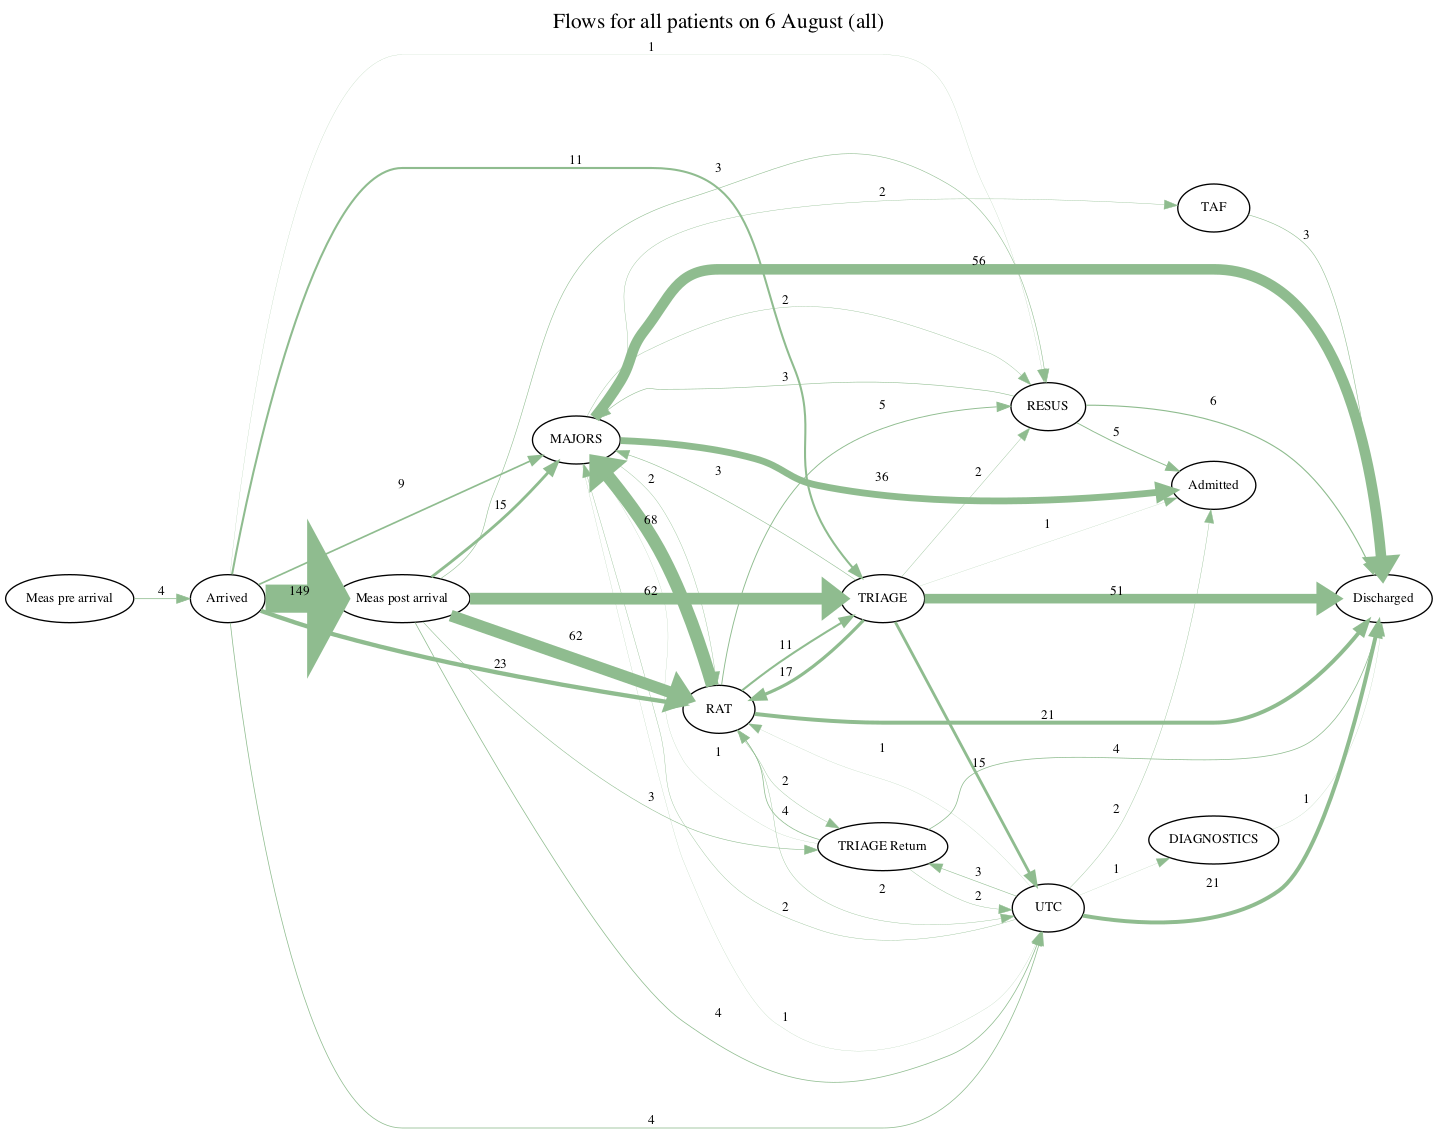
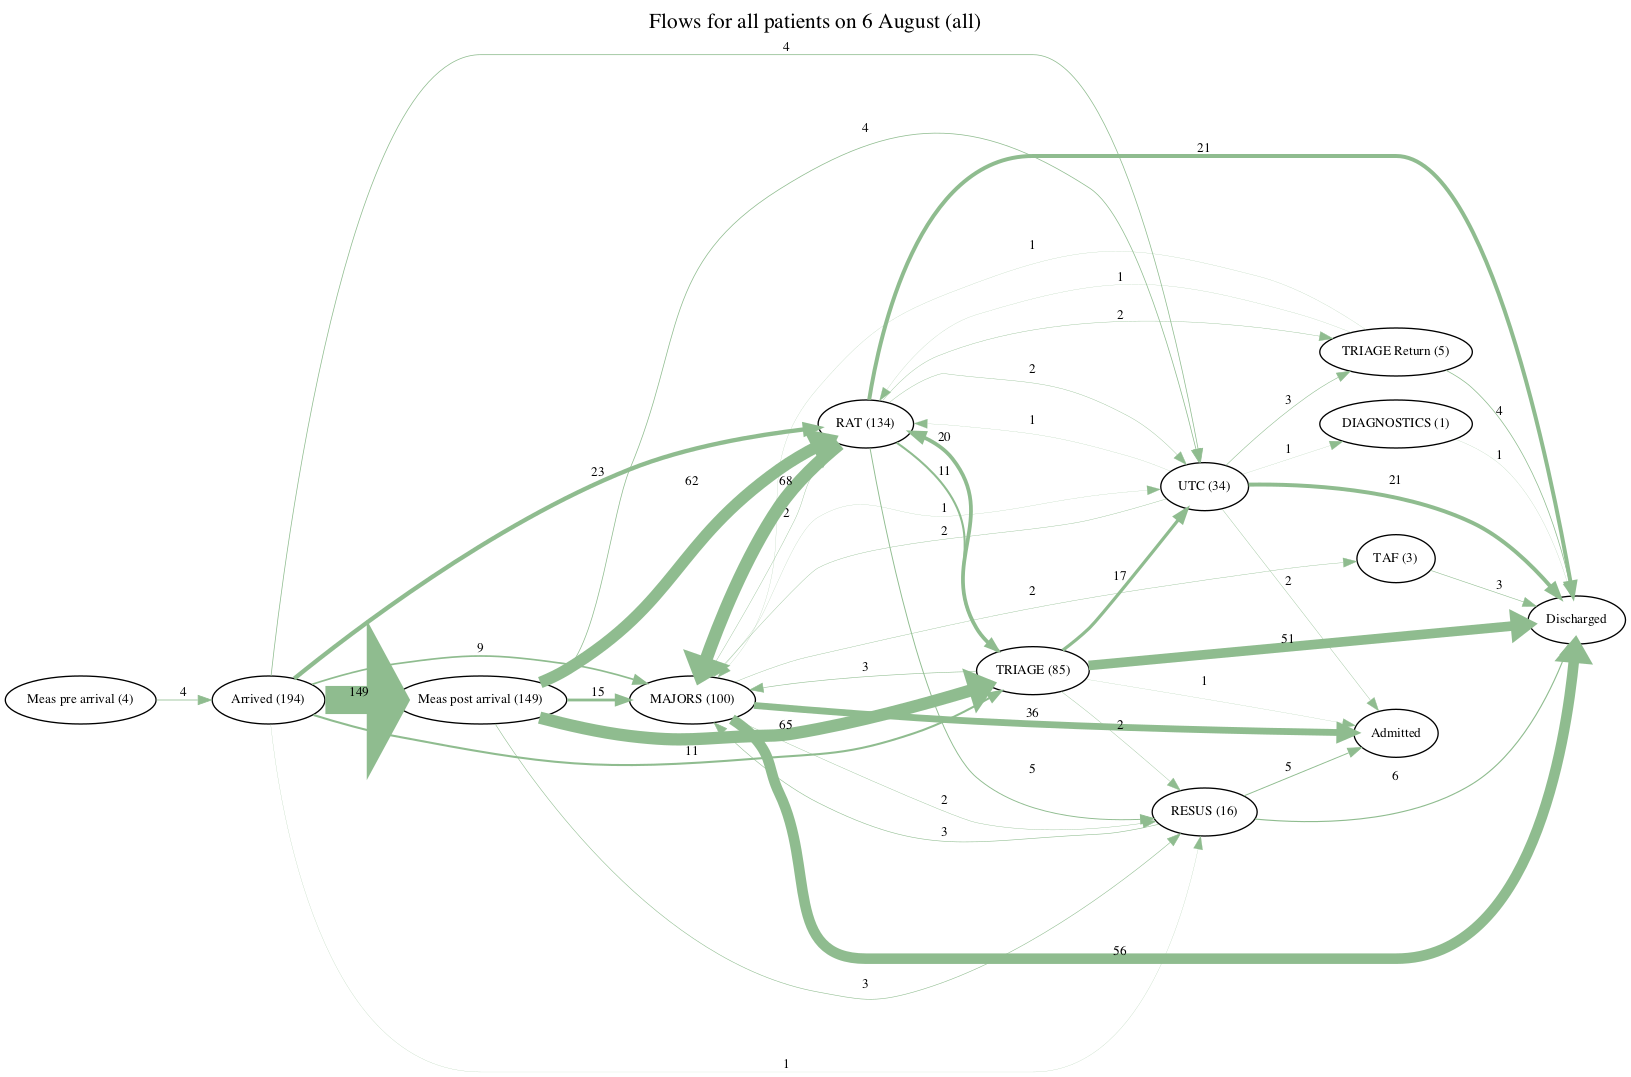
Average day chart for supervision

diff --git a/flow-mapping/code/create-viz-from-edge-list.py b/flow-mapping/code/create-viz-from-edge-list.py
@@ -79,8 +79,15 @@ G.draw("flow-mapping/media/August-1-6-all.png", prog='dot')
 filename = '/Users/zellaking/GitHubRepos/EDcrowding/flow-mapping/data-output/edgelist_summ_with_meas_August_6_2020-08-25.csv'
 edgelist_summ = pd.read_csv(filename, sep =',')
 
+filename = '/Users/zellaking/GitHubRepos/EDcrowding/flow-mapping/data-output/node_daily_with_meas_August_6_2020-08-25.csv'
+node_stats = pd.read_csv(filename, sep =',')
+
 edge_label_num = edgelist_summ['weight'].astype(int).copy().astype(str)
 edgelist_summ['edge_label'] = edge_label_num
+
+# create node label
+node_label_num = ' ('+node_stats['daily_num_pat'].astype(int).copy().astype(str)+')'
+node_stats['node_label'] = node_stats['room7'].str.cat(node_label_num)
 
 # initialise graph
 G4 = pgv.AGraph(name='6-August-all', directed=True,
@@ -89,6 +96,12 @@ G4.node_attr['shape'] = 'ellipse'
 G4.node_attr['fixedsize'] = 'false'
 G4.node_attr['fontsize'] = '10'
 G4.graph_attr['rankdir'] = 'LR'
+
+# add all nodes to graph
+for index, row in node_stats.iterrows():
+    G4.add_node(row['room7'],
+               label = row['node_label']
+               )
 
 # add all edges to graph -  where weight > 1
 for index, row in edgelist_summ[edgelist_summ['weight']>0].iterrows():
